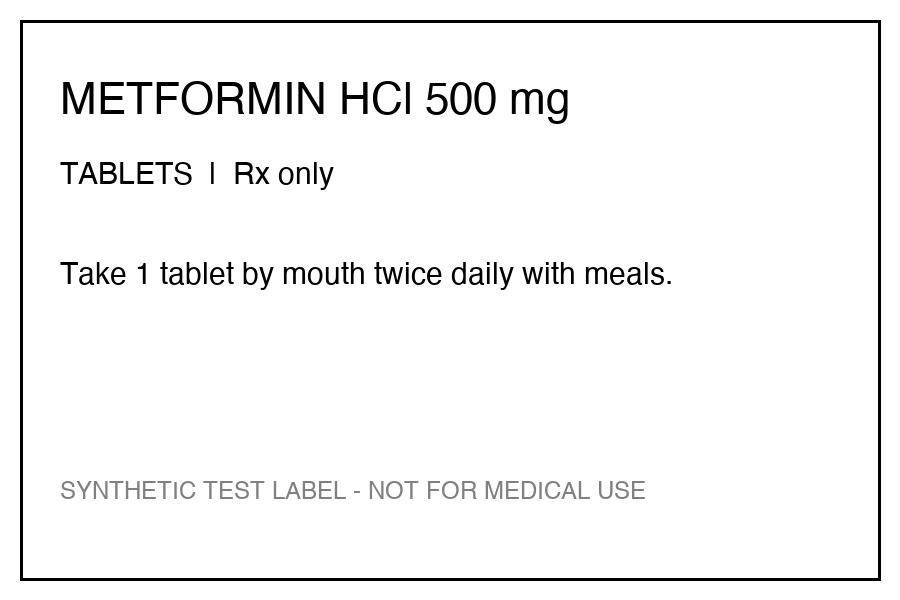
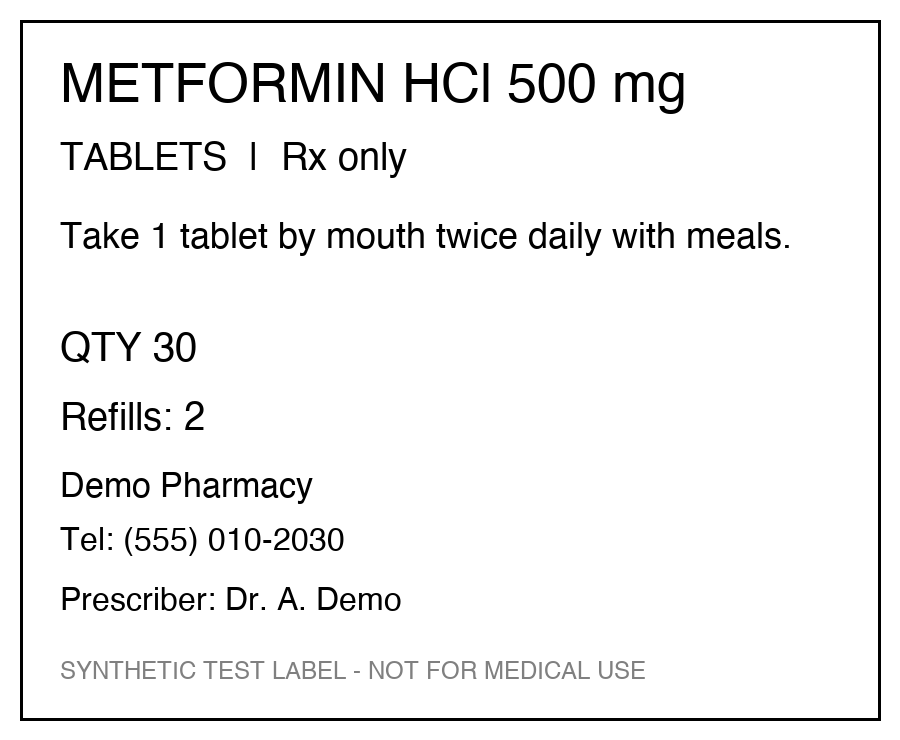
contracts: v1.3 label_meta (QTY/refills/pharmacy/prescriber/schedule) + reproducible sample generator

diff --git a/scripts/make_samples.py b/scripts/make_samples.py
@@ -1,0 +1,88 @@
+#!/usr/bin/env python3
+"""Regenerate the synthetic sample labels (reproducible; no real patient data).
+
+Usage: .venv-full/bin/python scripts/make_samples.py
+Outputs: samples/*.png  (sharp, blurry, dark, long-label thirds)
+"""
+from __future__ import annotations
+
+from pathlib import Path
+
+from PIL import Image, ImageDraw, ImageFilter, ImageFont
+
+ROOT = Path(__file__).resolve().parents[1]
+OUT = ROOT / "samples"
+FONT = "/System/Library/Fonts/Helvetica.ttc"
+
+
+def font(size: int) -> ImageFont.FreeTypeFont:
+    try:
+        return ImageFont.truetype(FONT, size)
+    except Exception:  # noqa: BLE001
+        return ImageFont.load_default()
+
+
+def base_label(name: str, strength: str, form: str, instruction: str, *, qty: str = "30",
+               refills: str = "2", pharmacy: str = "Demo Pharmacy", phone: str = "(555) 010-2030",
+               prescriber: str = "Dr. A. Demo", w: int = 900, h: int = 740) -> Image.Image:
+    img = Image.new("RGB", (w, h), "white")
+    d = ImageDraw.Draw(img)
+    d.rectangle([20, 20, w - 20, h - 20], outline="black", width=3)
+    d.text((60, 60), f"{name} {strength}", font=font(54), fill="black")
+    d.text((60, 140), f"{form}  |  Rx only", font=font(38), fill="black")
+    d.text((60, 220), instruction, font=font(36), fill="black")
+    d.text((60, 330), f"QTY {qty}", font=font(40), fill="black")
+    d.text((60, 400), f"Refills: {refills}", font=font(38), fill="black")
+    d.text((60, 470), f"{pharmacy}", font=font(34), fill="black")
+    d.text((60, 525), f"Tel: {phone}", font=font(32), fill="black")
+    d.text((60, 585), f"Prescriber: {prescriber}", font=font(32), fill="black")
+    d.text((60, 660), "SYNTHETIC TEST LABEL - NOT FOR MEDICAL USE", font=font(24), fill="gray")
+    return img
+
+
+def long_label() -> Image.Image:
+    w, h = 1800, 1200
+    img = Image.new("RGB", (w, h), "white")
+    d = ImageDraw.Draw(img)
+    d.rectangle([20, 20, w - 20, h - 20], outline="black", width=4)
+    d.text((70, 70), "HYDROCHLOROTHIAZIDE 25 mg TABLETS", font=font(54), fill="black")
+    d.text((70, 180), "Take 1 tablet by mouth once daily in the morning.", font=font(40), fill="black")
+    d.text((70, 300), "Swallow whole with a glass of water.", font=font(40), fill="black")
+    d.text((70, 420), "WARNING: Do not take if pregnant or breastfeeding.", font=font(40), fill="black")
+    d.text((70, 540), "Keep out of reach of children. Store below 30C.", font=font(40), fill="black")
+    d.text((70, 660), "QTY 30", font=font(44), fill="black")
+    d.text((70, 740), "Refills: 1", font=font(40), fill="black")
+    d.text((70, 820), "Demo Pharmacy  Tel: (555) 010-2030", font=font(34), fill="black")
+    d.text((70, 890), "Prescriber: Dr. A. Demo", font=font(34), fill="black")
+    d.text((70, 980), "Rx only - synthetic test label", font=font(30), fill="gray")
+    return img
+
+
+def save_degraded(img: Image.Image, name: str) -> None:
+    img.save(OUT / f"{name}.png")
+    img.filter(ImageFilter.GaussianBlur(6)).save(OUT / f"{name}_blurry.png")
+    from PIL import ImageEnhance
+
+    ImageEnhance.Brightness(img).enhance(0.35).save(OUT / f"{name}_dark.png")
+
+
+def main() -> None:
+    OUT.mkdir(exist_ok=True)
+    metformin = base_label("METFORMIN HCl", "500 mg", "TABLETS",
+                           "Take 1 tablet by mouth twice daily with meals.")
+    save_degraded(metformin, "label_metformin")
+    lisinopril = base_label("LISINOPRIL", "10 mg", "TABLETS", "Take 1 tablet by mouth once daily.",
+                            qty="90", refills="3", pharmacy="Sample Rx", phone="(555) 010-4040",
+                            prescriber="Dr. B. Sample")
+    save_degraded(lisinopril, "label_lisinopril")
+
+    long = long_label()
+    long.save(OUT / "long_label_full.png")
+    for name, x0, x1 in (("left", 0, 900), ("middle", 450, 1350), ("right", 900, 1800)):
+        long.crop((x0, 0, x1, 1200)).save(OUT / f"long_label_{name}.png")
+
+    print("wrote samples to", OUT)
+
+
+if __name__ == "__main__":
+    main()

diff --git a/services/common/contract.py b/services/common/contract.py
@@ -9,7 +9,7 @@ from typing import Any, Dict, List, Optional
 
 from pydantic import BaseModel, ConfigDict, Field
 
-CONTRACT_VERSION = "1.2.0"
+CONTRACT_VERSION = "1.3.0"
 
 SAFETY_DISCLAIMER = (
     "Informational only; not medical advice. "
@@ -190,6 +190,22 @@ class CaptureInfo(BaseModel):
     per_frame: List[PerFrameResult] = Field(default_factory=list)
 
 
+class LabelMeta(BaseModel):
+    """v1.3 additive: pharmacy-label metadata printed on real labels.
+
+    Values are strings exactly as read (or derived for ``schedule_times``); absent
+    values stay ``None`` with ``source="none"`` and are never fabricated.
+    """
+
+    model_config = ConfigDict(extra="forbid")
+    quantity_start: Optional[FieldString] = None
+    refills_remaining: Optional[FieldString] = None
+    pharmacy_name: Optional[FieldString] = None
+    pharmacy_phone: Optional[FieldString] = None
+    prescriber: Optional[FieldString] = None
+    schedule_times: Optional[FieldString] = None
+
+
 class ScanResponse(BaseModel):
     """The single integration surface between inference and iOS/backend."""
 
@@ -212,6 +228,7 @@ class ScanResponse(BaseModel):
     safety: Safety = Field(default_factory=Safety)
     error: Optional[ErrorInfo] = None
     capture: Optional[CaptureInfo] = None
+    label_meta: Optional[LabelMeta] = None
 
 
 class HealthResponse(BaseModel):

diff --git a/services/api/tests/test_contract_conformance.py b/services/api/tests/test_contract_conformance.py
@@ -44,7 +44,7 @@ def test_examples_validate_against_json_schema(example_path: Path):
 def test_examples_validate_against_pydantic_mirror(example_path: Path):
     instance = json.loads(example_path.read_text())
     parsed = ScanResponse.model_validate(instance)
-    assert parsed.contract_version == "1.2.0"
+    assert parsed.contract_version == "1.3.0"
 
 
 @pytest.mark.parametrize("example_path", EXAMPLE_PATHS, ids=_ids(EXAMPLE_PATHS))

diff --git a/services/api/tests/test_gateway.py b/services/api/tests/test_gateway.py
@@ -110,7 +110,7 @@ def test_scan_fixture_statuses(fixture_key):
     jsonschema.validate(instance=payload, schema=SCHEMA)
 
     fixture = fixture_by_key(fixture_key)
-    assert payload["contract_version"] == "1.2.0"
+    assert payload["contract_version"] == "1.3.0"
     assert payload["status"] == fixture["status"]
     assert payload["mode"] == "mock"
     assert payload["request_id"].startswith("req-")

diff --git a/services/api/tests/test_multi.py b/services/api/tests/test_multi.py
@@ -58,7 +58,7 @@ def test_mock_multi_capture_and_determinism():
     assert response.status_code == 200
     payload = response.json()
     _validate(payload)
-    assert payload["contract_version"] == "1.2.0"
+    assert payload["contract_version"] == "1.3.0"
     assert payload["mode"] == "mock"
     assert payload["status"] == "ok"
     assert payload["capture"]["fusion"] == "multi_frame"

diff --git a/services/api/tests/test_network.py b/services/api/tests/test_network.py
@@ -48,7 +48,7 @@ def test_scan_accepts_correct_bearer(monkeypatch):
     assert response.status_code == 200
     body = response.json()
     assert body["mode"] == "mock"
-    assert body["contract_version"] == "1.2.0"
+    assert body["contract_version"] == "1.3.0"
 
 
 def test_auth_disabled_when_key_unset(monkeypatch):

diff --git a/services/common/__init__.py b/services/common/__init__.py
@@ -17,6 +17,7 @@ from services.common.contract import (  # noqa: F401
     Interpretation,
     Label,
     Medication,
+    LabelMeta,
     PerFrameResult,
     ReadyResponse,
     Safety,

diff --git a/contracts/README.md b/contracts/README.md
@@ -46,6 +46,11 @@ minor version (`1.1.0`); breaking changes bump the major version and require a n
 
 **Changelog**
 
+- `1.3.0` (2026-10-10) — additive: `label_meta` block with pharmacy-label metadata as
+  `{value: str|null, confidence, source}`: `quantity_start` (QTY), `refills_remaining`,
+  `pharmacy_name`, `pharmacy_phone`, `prescriber`, `schedule_times` (derived "08:00" /
+  "08:00, 20:00"). Added so the web hub/UI can render the full label without parsing raw
+  text. Absent fields stay null; nothing is fabricated.
 - `1.2.0` (2026-10-10) — additive: `capture` block for **multi-frame label capture**
   (`POST /v1/scan/multi`): `{frames_requested, frames_used, fusion:"single|multi_frame",
   per_frame[{index,status,label_detected?,label_confidence?,clipped?,guidance?}]}`. Enables
